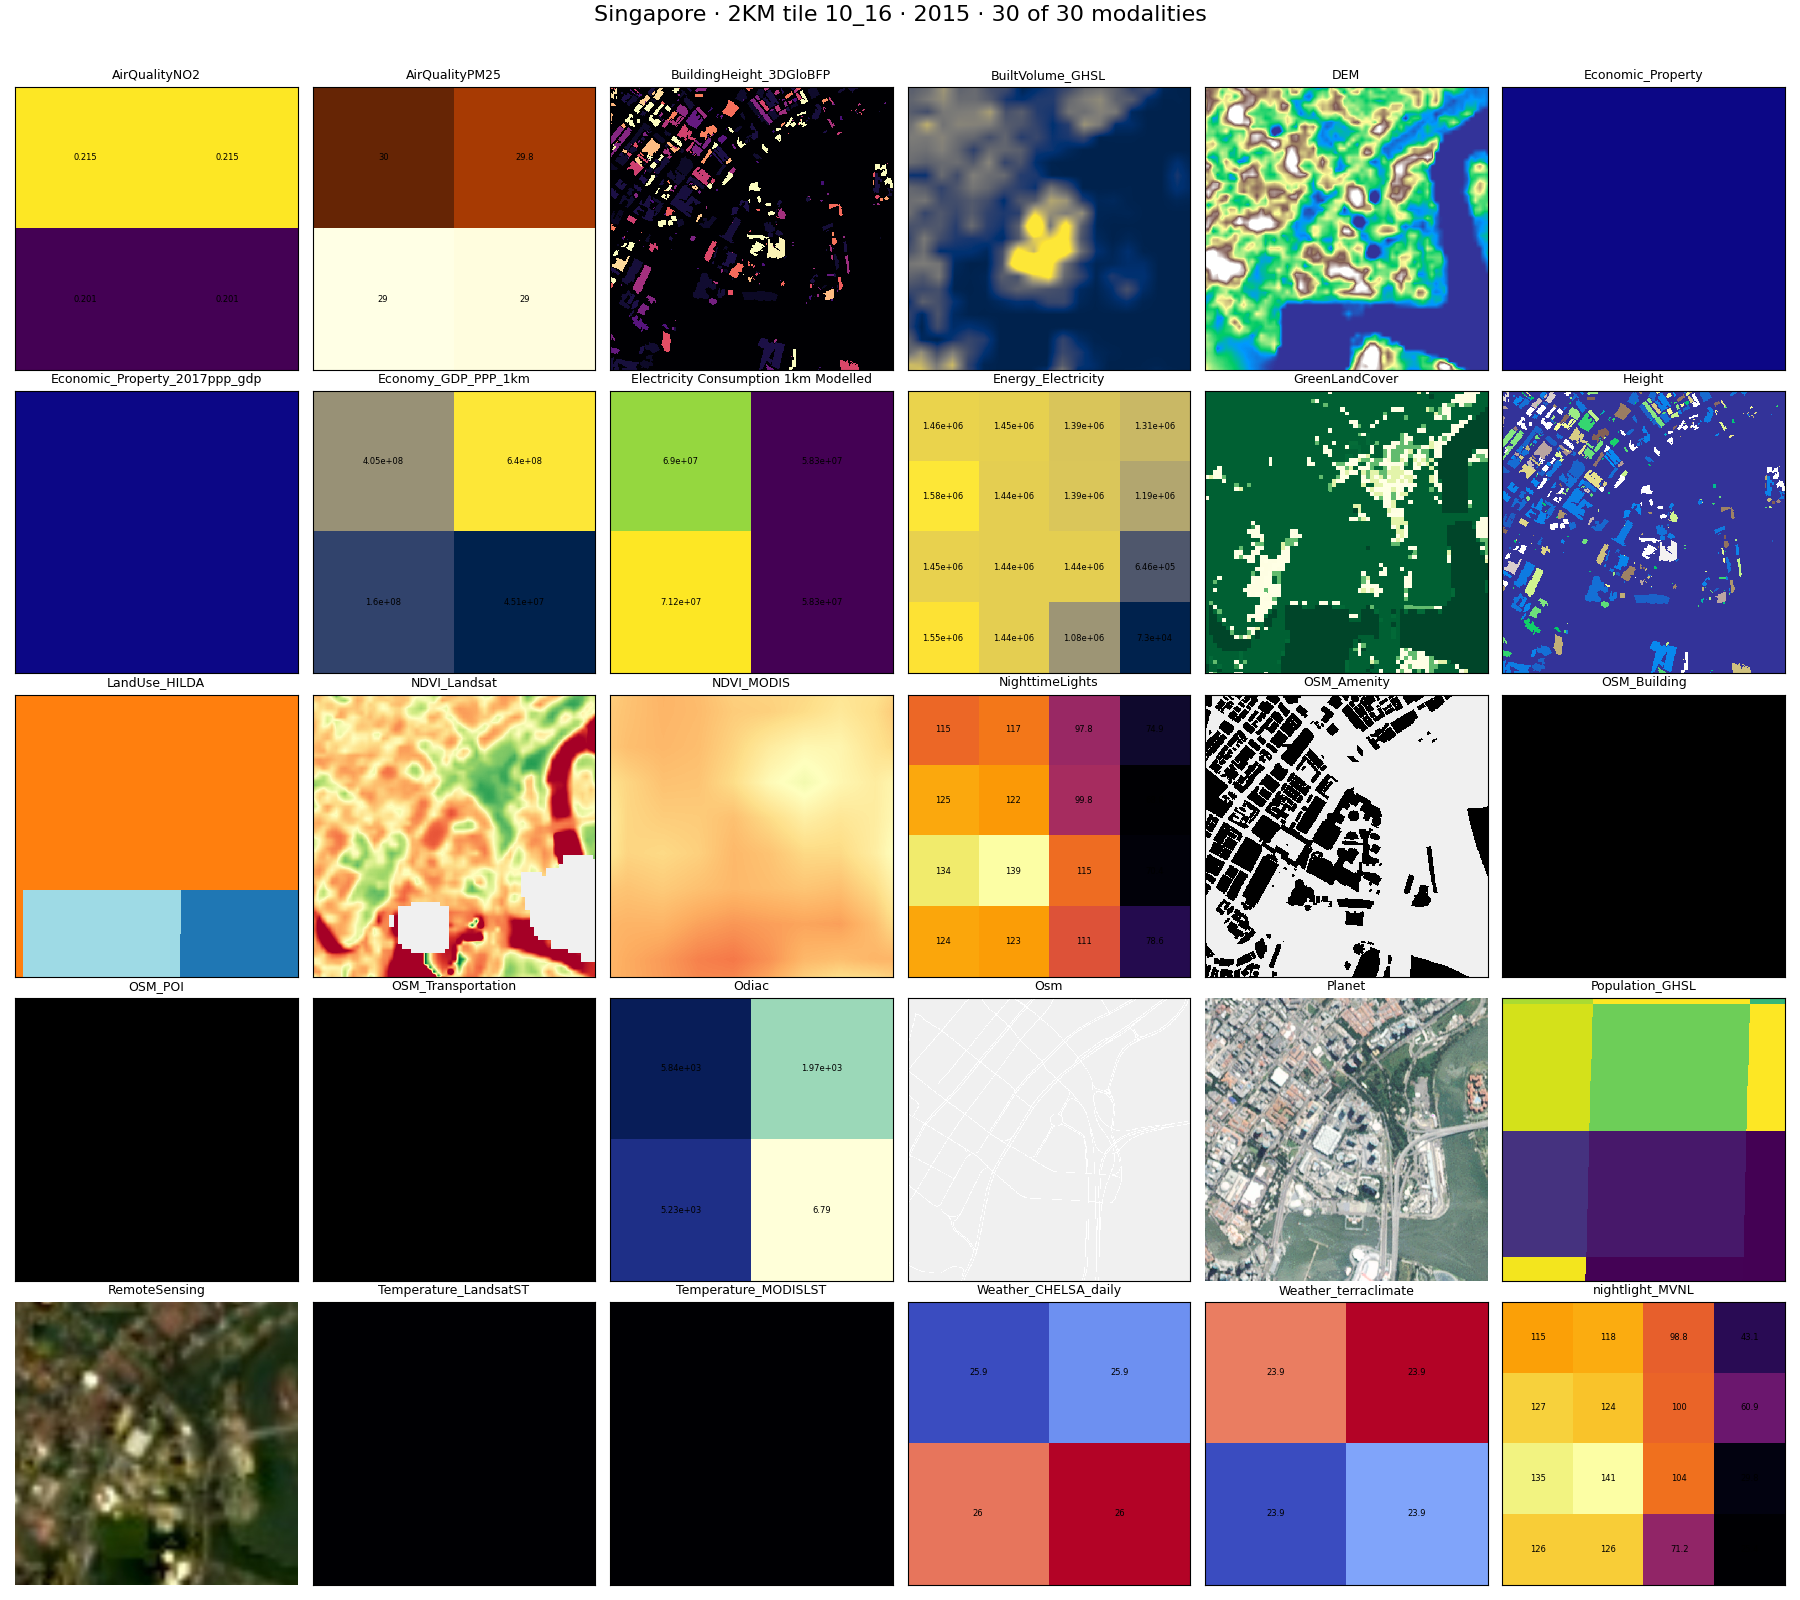
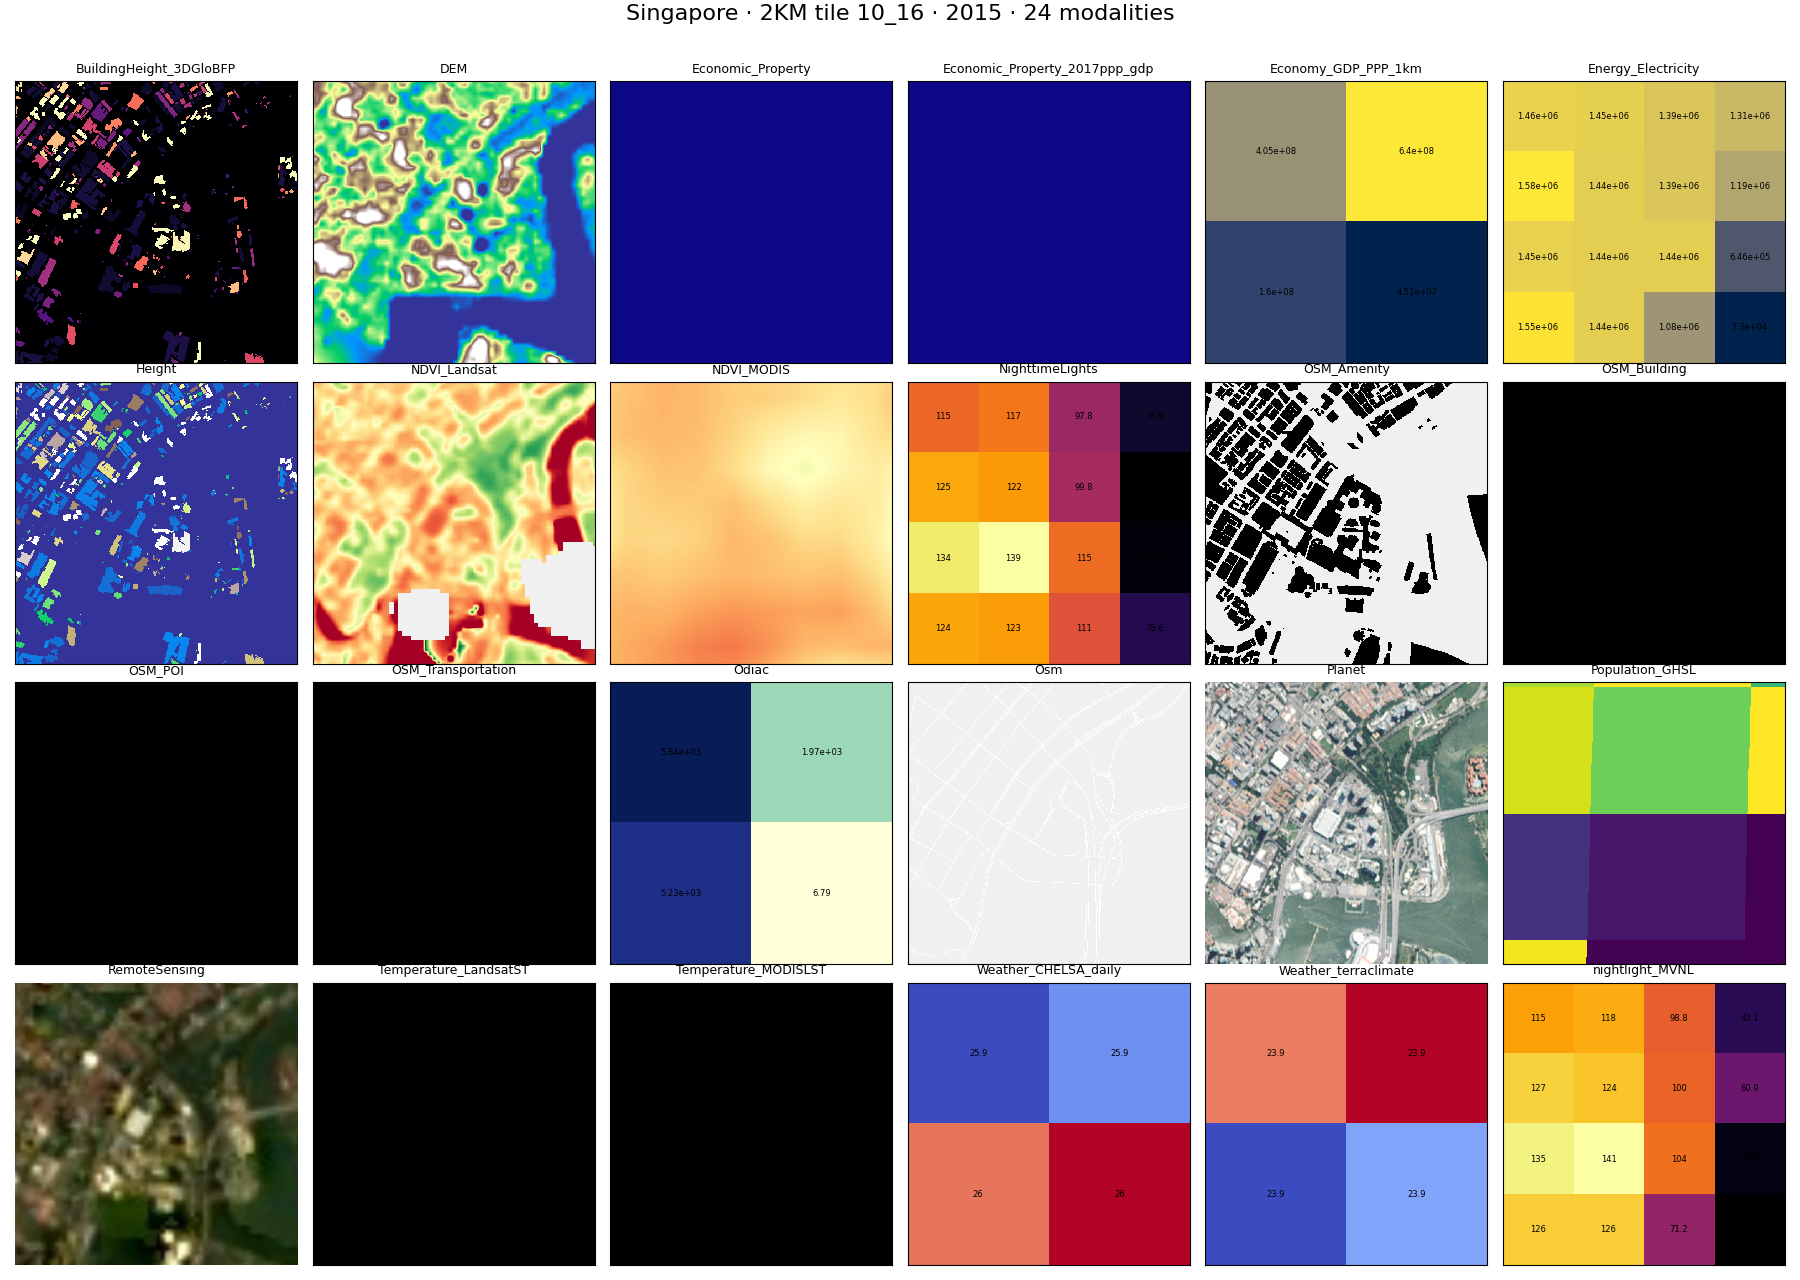
Render only the 24 modalities common to 2015 / 2020 / 2024
The union layout left 6 grey placeholders in 2024, which made the third
figure hard to read. All three years now render the intersection of their
layer sets instead: 24 modalities, 64 bands, identical 6x4 grid at
1800x1280 px, no placeholders, same panels in the same slots.

The six dropped layers (AirQualityNO2, Electricity Consumption,
LandUse_HILDA, GreenLandCover, AirQualityPM25, BuiltVolume_GHSL) are
listed in the README with the year each one stops; union mode is still
available via --canonical-from without --canonical-intersect.

diff --git a/scripts/make_tile_viz.py b/scripts/make_tile_viz.py
@@ -159,15 +159,42 @@ def main():
     ap.add_argument("--year", default="2020")
     ap.add_argument("--root", default="/NFS/T5/kailais/agent/Urban-bench/Singapore/2KM/2020")
     ap.add_argument("--out", default="/NFS/T5/kailais/agent/vis_work/singapore_2020_tile_16_10")
+    ap.add_argument("--canonical-from", default=None,
+                    help="comma separated year roots; the montage then uses one fixed slot "
+                         "per modality (the union across those years) so several years can be "
+                         "compared panel by panel. Modalities absent in this year are drawn "
+                         "as placeholders instead of shifting the layout.")
+    ap.add_argument("--canonical-intersect", action="store_true",
+                    help="with --canonical-from: keep only the modalities present in ALL of "
+                         "those years (the intersection), so every year renders exactly the "
+                         "same layers with no placeholders at all.")
     args = ap.parse_args()
 
     os.makedirs(os.path.join(args.out, "per_modality"), exist_ok=True)
     mods = sorted(d for d in os.listdir(args.root) if os.path.isdir(os.path.join(args.root, d)))
 
-    panels, rows = [], []
+    # modalities common to every year in --canonical-from (or None = keep everything)
+    allowed = None
+    if args.canonical_from and args.canonical_intersect:
+        sets = []
+        for r_ in args.canonical_from.split(","):
+            r_ = r_.strip()
+            if not os.path.isdir(r_):
+                continue
+            y_ = os.path.basename(r_)
+            sets.append({m for m in os.listdir(r_)
+                         if os.path.isfile(os.path.join(r_, m, "data",
+                                                        f"{args.tile}_s2km_y{y_}.tif"))})
+        if sets:
+            allowed = set.intersection(*sets)
+            print(f"  intersection of {len(sets)} years: {len(allowed)} modalities")
+
+    panels, rows = {}, []
     for m in mods:
         tif = os.path.join(args.root, m, "data", f"{args.tile}_s2km_y{args.year}.tif")
         if not os.path.isfile(tif):
+            continue
+        if allowed is not None and m not in allowed:
             continue
         meta = load_meta(os.path.join(args.root, m))
         unit = str(meta.get("unit") or meta.get("units") or "").split(";")[0].strip()
@@ -188,7 +215,7 @@ def main():
             axes.imshow(rgb.astype("uint8"))
             axes.set_title(f"{m} — RGB composite\n{unit}", fontsize=10)
             axes.axis("off")
-            panels.append((m, rgb.astype("uint8"), None, unit, small))
+            panels[m] = (rgb.astype("uint8"), None, unit, small)
             fig.tight_layout()
             fig.savefig(os.path.join(args.out, "per_modality", f"{m}.png"), dpi=95)
             plt.close(fig)
@@ -205,7 +232,7 @@ def main():
             fig.savefig(os.path.join(args.out, "per_modality", f"{m}.png"), dpi=95)
             plt.close(fig)
             a0 = read_band(tif, 1)
-            panels.append((m, a0, STYLE.get(m, ("viridis", None, None)), unit, small))
+            panels[m] = (a0, STYLE.get(m, ("viridis", None, None)), unit, small)
 
         # ---- stats ----
         for i in range(count):
@@ -226,12 +253,45 @@ def main():
         print(f"  rendered {m} ({count} band(s))")
 
     # ---- overview montage ----
-    n = len(panels)
+    # Fixed slot per modality so several years can be compared panel by panel.
+    # Without --canonical-from we fall back to this year's own (alphabetical) order.
+    if allowed is not None:
+        # intersection mode: every year renders exactly the same layers
+        order = sorted(allowed)
+    elif args.canonical_from:
+        order = []
+        for r_ in args.canonical_from.split(","):
+            r_ = r_.strip()
+            if not os.path.isdir(r_):
+                continue
+            y_ = os.path.basename(r_)
+            for m in sorted(os.listdir(r_)):
+                if os.path.isfile(os.path.join(r_, m, "data", f"{args.tile}_s2km_y{y_}.tif")):
+                    if m not in order:
+                        order.append(m)
+    else:
+        order = sorted(panels)
+
+    n = len(order)
     ncol = 6
     nrow = int(np.ceil(n / ncol))
     fig, axes = plt.subplots(nrow, ncol, figsize=(3.0 * ncol, 3.2 * nrow))
     axes = np.atleast_1d(axes).ravel()
-    for ax, (m, arr, style, unit, small) in zip(axes, panels):
+    n_missing = 0
+    for ax, m in zip(axes, order):
+        if m not in panels:
+            n_missing += 1
+            ax.set_facecolor("#f2f2f2")
+            ax.text(0.5, 0.5, "not available\nfor this year", ha="center", va="center",
+                    fontsize=8, color="#999999", transform=ax.transAxes)
+            ax.set_title(f"{m}\n(missing)", fontsize=9, color="#999999")
+            ax.set_xticks([])
+            ax.set_yticks([])
+            for sp in ax.spines.values():
+                sp.set_color("#dddddd")
+                sp.set_linestyle("--")
+            continue
+        arr, style, unit, small = panels[m]
         if arr.ndim == 3:
             ax.imshow(arr.astype("uint8"))
             ax.set_title(m, fontsize=9)
@@ -243,7 +303,10 @@ def main():
     for ax in axes[n:]:
         ax.axis("off")
     fig.suptitle(
-        f"Singapore · 2KM tile {args.tile} · {args.year} · {n} modalities",
+        f"Singapore · 2KM tile {args.tile} · {args.year} · "
+        + (f"{len(panels)} modalities" if len(panels) == n
+           else f"{len(panels)} of {n} modalities")
+        + (f" · {n_missing} not available this year" if n_missing else ""),
         fontsize=16, y=0.997,
     )
     fig.tight_layout(rect=[0, 0, 1, 0.985])

diff --git a/README.md b/README.md
@@ -20,26 +20,34 @@ OpenStreetMap layers.
 
 | year | modalities | bands | montage | folder |
 |---|---|---|---|---|
-| 2015 | 30 | 72 | [`overview_montage.png`](singapore_2015_tile_10_16/overview_montage.png) | [`singapore_2015_tile_10_16/`](singapore_2015_tile_10_16/) |
-| 2020 | 28 | 70 | [`overview_montage.png`](singapore_2020_tile_10_16/overview_montage.png) | [`singapore_2020_tile_10_16/`](singapore_2020_tile_10_16/) |
+| 2015 | 24 | 64 | [`overview_montage.png`](singapore_2015_tile_10_16/overview_montage.png) | [`singapore_2015_tile_10_16/`](singapore_2015_tile_10_16/) |
+| 2020 | 24 | 64 | [`overview_montage.png`](singapore_2020_tile_10_16/overview_montage.png) | [`singapore_2020_tile_10_16/`](singapore_2020_tile_10_16/) |
 | 2024 | 24 | 64 | [`overview_montage.png`](singapore_2024_tile_10_16/overview_montage.png) | [`singapore_2024_tile_10_16/`](singapore_2024_tile_10_16/) |
 
-#### The three montages are slot-aligned
+#### One shared layer set (intersection of the three years)
 
-All three use the same **1800 × 1600** layout with **one fixed grid position per
-modality**, taken from the union of the three years. A modality that does not
-exist for a given year is drawn as a grey `(missing)` placeholder rather than
-disappearing and shifting everything after it, so the same panel can be compared
-across years without hunting for it. The banner states how many of the 30 slots
-that year actually fills.
+The collection is not uniform over time: 2015 carries 30 modalities, 2020 28 and
+2024 24, and six layers stop somewhere in between. Rather than leaving holes in
+the comparison, all three folders render the **24 modalities present in all three
+years**, so every year has exactly the same 24 panels in exactly the same
+positions in an identical **1800 × 1280** 6 × 4 grid, and no panel is a
+placeholder. The same 24 layers drive `per_modality/` and `modality_stats.csv` in
+every year folder.
 
-This also makes the coverage drift of the collection readable at a glance. 2015
-fills all 30 slots; 2020 is missing `AirQualityNO2` and
-`Electricity Consumption 1km Modelled`; 2024 is missing six — `AirQualityNO2`,
-`AirQualityPM25`, `BuiltVolume_GHSL`,
-`Electricity Consumption 1km Modelled`, `GreenLandCover` and `LandUse_HILDA` —
-because those products were not extended past their last release. The per-year
-`README.md` and `modality_stats.csv` list exactly what is present.
+The six layers dropped to make that possible, and where they stop:
+
+| layer | available |
+|---|---|
+| `AirQualityNO2` | 2015 only (stops after 2019) |
+| `Electricity Consumption 1km Modelled` | 2015 only (stops after 2019) |
+| `LandUse_HILDA` | 2015, 2020 (stops after 2020) |
+| `GreenLandCover` | 2015, 2020 (stops after 2022) |
+| `AirQualityPM25` | 2015, 2020 (stops after 2023) |
+| `BuiltVolume_GHSL` | 2015, 2020 (sparse snapshots) |
+
+They are easy to bring back per year with
+`--canonical-from "$CAN"` alone (union mode), which draws grey `(missing)`
+placeholders and makes the coverage drift itself the thing you see.
 
 Each year folder contains the same set of files:
 
@@ -59,7 +67,7 @@ Reproducible generators for the figures above:
 R=/path/to/Urban-bench/Singapore/2KM
 CAN="$R/2015,$R/2020,$R/2024"          # shared slot order across all three years
 python scripts/make_tile_viz.py --tile 10_16 --year 2024 --root $R/2024 \
-    --out singapore_2024_tile_10_16 --canonical-from "$CAN"
+    --out singapore_2024_tile_10_16 --canonical-from "$CAN" --canonical-intersect
 python scripts/make_location_map.py --tile 10_16 --year 2024 --root $R/2024 \
     --out singapore_2024_tile_10_16/tile_location.png
 python scripts/make_readme.py --tile 10_16 --year 2024 --root $R/2024 \

diff --git a/singapore_2015_tile_10_16/README.md b/singapore_2015_tile_10_16/README.md
@@ -12,13 +12,13 @@ One tile of the **Urban-bench** dataset (source archive `Singapore.tar` from [`f
 | centroid (WGS84) | 103.85847, 1.29351 |
 | projected CRS | EPSG:32648 (WGS 84 / UTM zone 48N) |
 | location | City Hall / downtown core, Singapore |
-| modalities present | 30 |
+| modalities present | 24 |
 
 ## Figures
 
 | file | what it shows |
 |---|---|
-| `overview_montage.png` | all 30 modalities side by side (band 1, or RGB for imagery) |
+| `overview_montage.png` | all 24 modalities side by side (band 1, or RGB for imagery) |
 | `per_modality/<name>.png` | every band of one modality, with its own colour scale |
 | `tile_location.png` | the 2 KM tile grid of Singapore with this tile highlighted |
 | `modality_stats.csv` | per-band min / mean / median / max / valid-pixel fraction |
@@ -29,19 +29,13 @@ The overview montage uses a **fixed slot per modality** shared with the other re
 
 | modality | bands | raster | unit | band names | valid % |
 |---|---|---|---|---|---|
-| `AirQualityNO2` | 1 | 2x2 | — | band 1 | 100.0 |
-| `AirQualityPM25` | 1 | 2x2 | — | band 1 | 100.0 |
 | `BuildingHeight_3DGloBFP` | 1 | 512x512 | — | band 1 | 100.0 |
-| `BuiltVolume_GHSL` | 2 | 512x512 | — | total built-volume density, m3/m2, non-residential built-volume den... | 100.0 |
 | `DEM` | 1 | 512x512 | — | band 1 | 100.0 |
 | `Economic_Property` | 4 | 512x512 | SGD | property_value_median_local_currency, property_value_mean_local_cur... | 100.0 |
 | `Economic_Property_2017ppp_gdp` | 4 | 512x512 | SGD | property_value_median_local_currency, property_value_mean_local_cur... | 100.0 |
 | `Economy_GDP_PPP_1km` | 1 | 2x2 | — | band 1 | 100.0 |
-| `Electricity Consumption 1km Modelled` | 1 | 2x2 | kWh/km2/year | band 1 | 100.0 |
 | `Energy_Electricity` | 1 | 4x4 | kWh/account/500m_cell/year | band 1 | 100.0 |
-| `GreenLandCover` | 2 | 512x512 | — | raw fine land-cover class, green group: 0 non-green, 1 tree, 2 shru... | 100.0 |
 | `Height` | 1 | 512x512 | m | band 1 | 100.0 |
-| `LandUse_HILDA` | 1 | 512x512 | — | band 1 | 100.0 |
 | `NDVI_Landsat` | 1 | 512x512 | unitless NDVI [-1,1] | band 1 | 89.5 |
 | `NDVI_MODIS` | 1 | 512x512 | unitless NDVI [-1,1] | band 1 | 100.0 |
 | `NighttimeLights` | 1 | 4x4 | nW/cm2/sr | band 1 | 100.0 |

diff --git a/singapore_2020_tile_10_16/README.md b/singapore_2020_tile_10_16/README.md
@@ -12,13 +12,13 @@ One tile of the **Urban-bench** dataset (source archive `Singapore.tar` from [`f
 | centroid (WGS84) | 103.85847, 1.29351 |
 | projected CRS | EPSG:32648 (WGS 84 / UTM zone 48N) |
 | location | City Hall / downtown core, Singapore |
-| modalities present | 28 |
+| modalities present | 24 |
 
 ## Figures
 
 | file | what it shows |
 |---|---|
-| `overview_montage.png` | all 28 modalities side by side (band 1, or RGB for imagery) |
+| `overview_montage.png` | all 24 modalities side by side (band 1, or RGB for imagery) |
 | `per_modality/<name>.png` | every band of one modality, with its own colour scale |
 | `tile_location.png` | the 2 KM tile grid of Singapore with this tile highlighted |
 | `modality_stats.csv` | per-band min / mean / median / max / valid-pixel fraction |
@@ -29,17 +29,13 @@ The overview montage uses a **fixed slot per modality** shared with the other re
 
 | modality | bands | raster | unit | band names | valid % |
 |---|---|---|---|---|---|
-| `AirQualityPM25` | 1 | 2x2 | — | band 1 | 100.0 |
 | `BuildingHeight_3DGloBFP` | 1 | 512x512 | — | band 1 | 100.0 |
-| `BuiltVolume_GHSL` | 2 | 512x512 | — | total built-volume density, m3/m2, non-residential built-volume den... | 100.0 |
 | `DEM` | 1 | 512x512 | — | band 1 | 100.0 |
 | `Economic_Property` | 4 | 512x512 | SGD | property_value_median_local_currency, property_value_mean_local_cur... | 100.0 |
 | `Economic_Property_2017ppp_gdp` | 4 | 512x512 | SGD | property_value_median_local_currency, property_value_mean_local_cur... | 100.0 |
 | `Economy_GDP_PPP_1km` | 1 | 2x2 | — | band 1 | 100.0 |
 | `Energy_Electricity` | 1 | 4x4 | kWh/account/500m_cell/year | band 1 | 100.0 |
-| `GreenLandCover` | 2 | 512x512 | — | raw fine land-cover class, green group: 0 non-green, 1 tree, 2 shru... | 100.0 |
 | `Height` | 1 | 512x512 | m | band 1 | 100.0 |
-| `LandUse_HILDA` | 1 | 512x512 | — | band 1 | 100.0 |
 | `NDVI_Landsat` | 1 | 512x512 | unitless NDVI [-1,1] | band 1 | 100.0 |
 | `NDVI_MODIS` | 1 | 512x512 | unitless NDVI [-1,1] | band 1 | 100.0 |
 | `NighttimeLights` | 1 | 4x4 | nW/cm2/sr | band 1 | 100.0 |
